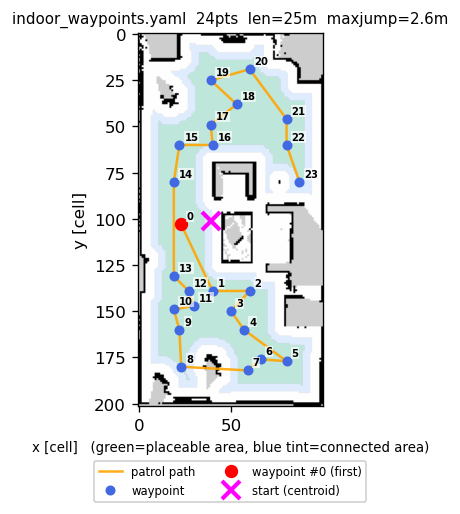
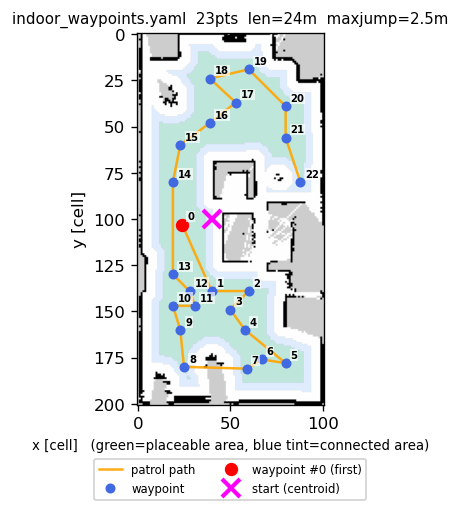
feat(overview): GIF を 3 フェーズ整合 + ロボット三角小型化 + Patrol 完走版に差し替え
GIF 内容の改善:
- ロボット三角を画像リサイズ後に描画する形に変更し、 mapping/recognition で見栄えを
  揃える (capture_overview_frames.py)
- タスク名バッジのフォントサイズ・パディング・最大幅比率を縮小して目立ちすぎを解消
  (prepare_overview_frames.py)
- recognition フェーズのタイトルを「3. Waypoint Patrol + Object Recognition」に変更し、
  巡回ナビが併走することを明示
- mapping / waypoints / recognition の 3 フェーズすべてを同じ最終マップから生成して
  地図形状の不整合を解消
- recognition は webots プロセスを完全リブートしてから realtime で再キャプチャし、
  reached=19/23 missed=[12,13,21,22] で mission complete まで巡回

連動して更新:
- outputs/mapping_indoor/indoor.{pgm,yaml,vs_world.*}: 今回の再マッピング結果
- outputs/waypoint_generation/indoor_waypoints.{yaml,png}: 同マップから再生成した 23 WP
- docs/images/overview.gif: 上記から作り直した正式版 (825KB, 1000x650)

diff --git a/scripts/capture_overview_frames.py b/scripts/capture_overview_frames.py
@@ -118,8 +118,9 @@ class MappingCapture(Node):
         res = msg.info.resolution
         H = h  # OccupancyGrid 高さ (=画像高 = grid_img の行数)
 
-        # ロボット現在位置 (青三角) を crop 後の画像座標へ
-        robot_px = None
+        # crop 後のロボット位置 (PGM ピクセル) を算出
+        robot_crop_px = None
+        robot_yaw = None
         if self.robot_xy is not None and res > 0:
             rx, ry, ryaw = self.robot_xy
             col_pgm = int((rx - ox) / res)
@@ -127,17 +128,8 @@ class MappingCapture(Node):
             col = col_pgm - x0
             row = row_pgm - y0
             if 0 <= col < img.width and 0 <= row < img.height:
-                draw = ImageDraw.Draw(img, 'RGBA')
-                size = 10
-                ia = -ryaw
-                pts = []
-                for ang_off in (0.0, 2.5, -2.5):
-                    ang = ia + ang_off
-                    pts.append((col + size * math.cos(ang),
-                                row + size * math.sin(ang)))
-                draw.polygon(pts, fill=(20, 20, 220, 255),
-                             outline=(255, 255, 255))
-                robot_px = (int(col), int(row))
+                robot_crop_px = (col, row)
+                robot_yaw = ryaw
 
         # 高さ固定 (480px) で書き出し、最後のリサイズは GIF 側
         target_h = 480
@@ -145,9 +137,26 @@ class MappingCapture(Node):
             ratio = target_h / img.height
             img = img.resize((max(1, int(img.width * ratio)), target_h),
                              Image.NEAREST)
-            if robot_px is not None:
-                robot_px = (int(robot_px[0] * ratio),
-                            int(robot_px[1] * ratio))
+            if robot_crop_px is not None:
+                robot_crop_px = (int(robot_crop_px[0] * ratio),
+                                 int(robot_crop_px[1] * ratio))
+
+        # リサイズ後の最終画像上に三角を描く (size は最終解像度基準なので
+        # 地図のスケール変動の影響を受けず、 recognition と同じ見栄えになる)
+        robot_px = None
+        if robot_crop_px is not None and robot_yaw is not None:
+            col, row = robot_crop_px
+            draw = ImageDraw.Draw(img, 'RGBA')
+            size = 10
+            ia = -robot_yaw
+            pts = []
+            for ang_off in (0.0, 2.5, -2.5):
+                ang = ia + ang_off
+                pts.append((col + size * math.cos(ang),
+                            row + size * math.sin(ang)))
+            draw.polygon(pts, fill=(20, 20, 220, 255),
+                         outline=(255, 255, 255))
+            robot_px = (int(col), int(row))
 
         # 旧バッジは GIF 側で重ねるため、画像内には描かない
         out_path = self.out_dir / f'{self.frame_index:04d}.png'

diff --git a/scripts/prepare_overview_frames.py b/scripts/prepare_overview_frames.py
@@ -26,7 +26,7 @@ from PIL import Image, ImageDraw, ImageFont
 PHASE_TITLES = {
     'mapping': '1. SLAM Mapping',
     'waypoints': '2. Waypoint Generation',
-    'recognition': '3. Object Recognition',
+    'recognition': '3. Waypoint Patrol + Object Recognition',
 }
 
 
@@ -84,10 +84,10 @@ def overlay_task_badge(img: Image.Image, title: str) -> Image.Image:
     """
     out = img.convert('RGB').copy()
     draw = ImageDraw.Draw(out, 'RGBA')
-    pad_x, pad_y = 14, 8
-    margin = 12
-    max_box_w = int(out.width * 0.70)
-    font_size = max(22, out.height // 18)
+    pad_x, pad_y = 10, 5
+    margin = 10
+    max_box_w = int(out.width * 0.55)
+    font_size = max(14, out.height // 28)
     font = None
     for _ in range(20):
         try:
@@ -99,9 +99,9 @@ def overlay_task_badge(img: Image.Image, title: str) -> Image.Image:
             break
         bbox = draw.textbbox((0, 0), title, font=font)
         text_w = bbox[2] - bbox[0]
-        if text_w + pad_x * 2 <= max_box_w or font_size <= 14:
+        if text_w + pad_x * 2 <= max_box_w or font_size <= 11:
             break
-        font_size = max(14, font_size - 2)
+        font_size = max(11, font_size - 1)
     bbox = draw.textbbox((0, 0), title, font=font)
     text_w = bbox[2] - bbox[0]
     text_h = bbox[3] - bbox[1]